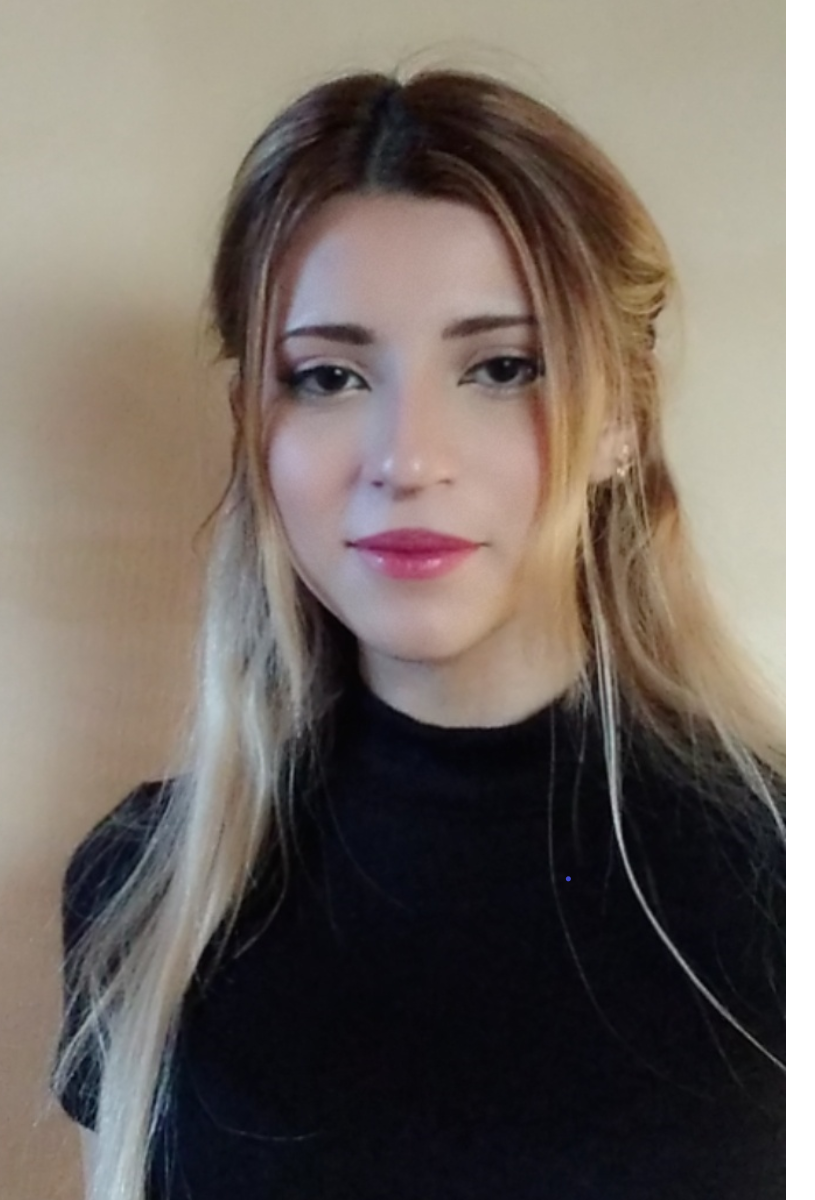
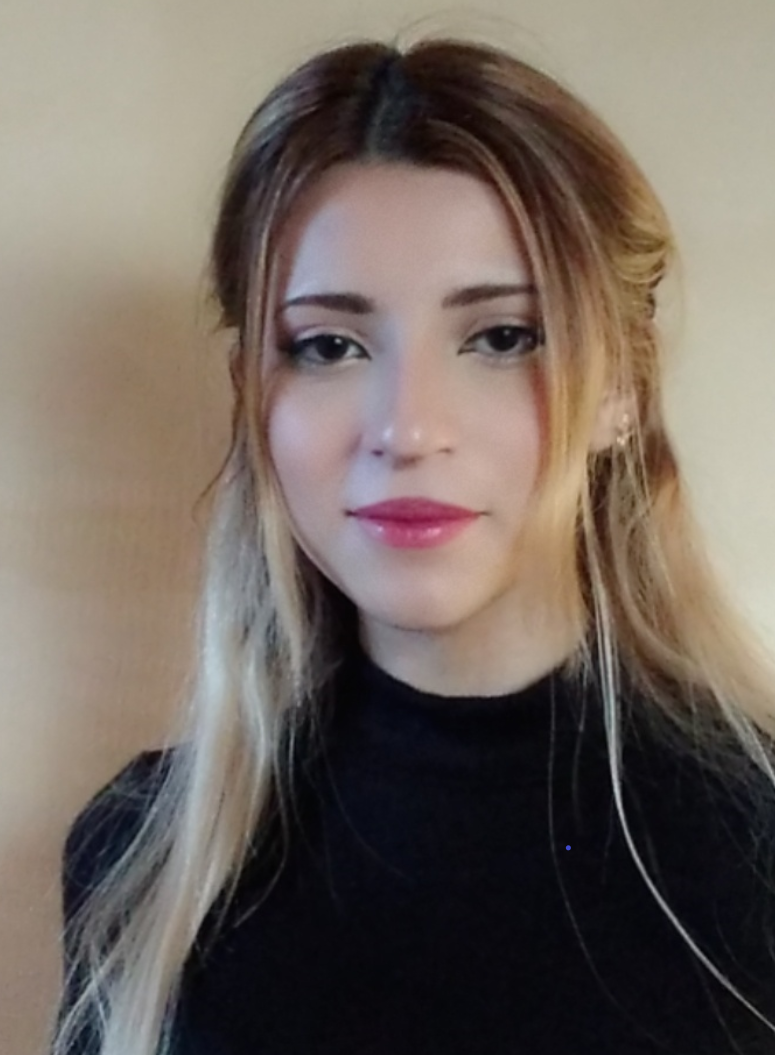
mejoras
mejore calidad fotos card conocenos el dorso y saque borde  de nav . en el index saque css que no servia y otras mejoras minimas

diff --git a/page/conocenos.html b/page/conocenos.html
@@ -33,7 +33,7 @@
           <img src="../style/img/diegoap.jpg" alt="diego" style="height: 100%;" width="100%">
         </div>
         <div class="dorso">
-          <a href="https://www.linkedin.com/in/diego-pizza-007410235/" target="_blank"><img src="../style/img/tpdof.png"
+          <a href="https://www.linkedin.com/in/diego-pizza-007410235/" target="_blank"><img src="../style/img/dorsodiego.png"
               alt="diegotp" style="width:100%;height:100%;">
             <a href=""></a>
         </div>
@@ -45,7 +45,7 @@
             style="width:100%;height:100%;"></div>
         <div class="dorsob">
           <a href="https://www.linkedin.com/in/gabriela-coronel-43a0a4286/" target="_blank"><img
-              src="../style/img/tpgaof.png" alt="dorso gaby" style="width:100%;height:100%;"></a>
+              src="../style/img/dorsoga2.png" alt="dorso gaby" style="width:100%;height:100%;"></a>
         </div>
       </div>
     </div>
@@ -55,7 +55,7 @@
             style="width:100%;height:100%;"></div>
         <div class="dorsoc">
           <a href="https://www.linkedin.com/in/karen-ares-b68978243/" target="_blank">
-            <img src="../style/img/KAREN CONOCENOS.png" alt="dorsokaren" style="width:100%;height:100%;">
+            <img src="../style/img/dorsokaren.png" alt="dorsokaren" style="width:100%;height:100%;">
           </a>
         </div>
       </div>

diff --git a/style/conocenosstyle.css b/style/conocenosstyle.css
@@ -11,7 +11,7 @@ header{
   justify-content: space-between;
   align-items: center;
   background-color: #333;
-  border: #fa6ef3 4px solid;
+
 }
 
 
@@ -38,7 +38,7 @@ body {
   text-align: center;
   transition: transform 0.8s;
   transform-style: preserve-3d;
-  margin-left: 250%;
+  margin-left: 256%;
   margin-top: 16%;
 }
 
@@ -63,11 +63,11 @@ body {
 .tarjetasb {
  
   width: 240px;
-  height: 260px;
+  height: 256px;
   perspective: 1000px;
   position: absolute;
-  margin-top: 9.4%;
-  margin-left: 999px;
+  margin-top: 9%;
+  margin-left: 1022px;
 }
  
 
@@ -116,7 +116,7 @@ body {
   text-align: center;
   transition: transform 0.8s;
   transform-style: preserve-3d;
-  margin-top: 16.5%;
+  margin-top: 17%;
 }
 
 .tarjetasc:hover .tarjetac {
@@ -147,6 +147,8 @@ body {
     border-color:  linear-gradient(to top, blue, rgb(161, 3, 153), rgb(136, 223, 37));
     text-shadow: 0 0 7px #fa6ef3, 0 0 15px rgb(232, 253, 40), 0 0 30px rgb(245, 235, 96);
     border: transparent;
+    margin-bottom: 0%;
+    margin-top: 45%;
 }
 
 .container_nav {
@@ -186,7 +188,8 @@ body {
   color: #06a500;
 }
 
-@media (max-width 700px ) {
+@media (max-width 700px ) 
+{
   header {
     flex-direction: column;
   }
@@ -196,5 +199,5 @@ body {
   .nav_bar{
     padding: 10px 0px;
   }
-  
+
 }

diff --git a/style/style.css b/style/style.css
@@ -63,7 +63,6 @@ body{
         text-align: center; 
         margin: auto;
         margin-top:12px;
-    
 }
 
 .slogan{
@@ -110,18 +109,6 @@ Pendiente de modificacion*/
 
 
 /*Carrusel de Gabri*/
-.principal {
-    -webkit-text-stroke: 2px rgb(3, 3, 2);
-    color: rgb(4, 231, 72);
-    font-size: 55px;
-    text-align: center;
-}
-
-.parra {
-    font-family: fantasy;
-    font-size: 20px;
-    text-align: center;
-}
 
 #contenedorcarru {
    margin-top: 100px;
@@ -134,18 +121,23 @@ Pendiente de modificacion*/
    top: 0%;
    text-align: center;
    background: linear-gradient(309deg, rgba(4,1,54,1) 3%, rgba(9,113,121,1) 51%, rgba(7,233,37,1) 100%);
+   margin-left: 1%;
+   margin-right: 1%;
+   
 }
 
 .carru {
     height: 100%;
+    width: 100%;
     position: relative;
+    
    
 }
 
 .carru .items {
     height: 100%;
-    flex-wrap: wrap;
-
+    width: 100%;
+    flex-flow: wrap;
 }
 
 .carru .flechas {
@@ -157,7 +149,6 @@ Pendiente de modificacion*/
     align-items: center;
     justify-content: space-between;
     padding: 3em;
-   
 }
 
 a {

diff --git a/index.html b/index.html
@@ -97,7 +97,7 @@
         </article>
     
         <div id="contenedorscroll">
-            <div id="tituloscroll" ><h2 class="offt">OFERTAS ESPECIALES <span class="espacio">_________________ </span>OFERTAS ESPECIALES </h2></div>
+            <div id="tituloscroll" ><h2 class="offt">OFERTAS ESPECIALES <span class="espacio">____________________ </span>OFERTAS ESPECIALES </h2></div>
             </div>
         <br><br>
 
